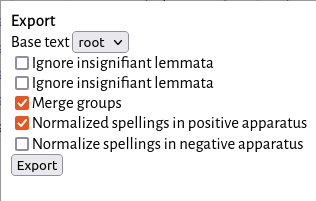
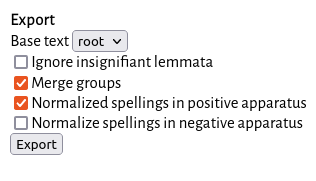
code & text cleanup

Changed region(s): [[0.0, 0.0, 1.0, 1.0]]

diff --git a/docs/index.html b/docs/index.html
@@ -101,7 +101,7 @@
                 <li>Reconstructing a text
                     <ul>
                         <li>open the NeXML tree in the <a href="https://chchch.github.io/sanskrit-alignment/matrix-editor/">matrix-editor</a>.</li>
-                        <li>make sure that the texts are normalized (<code>View -&gt; Normalize</code>).</li>
+                        <li>make sure that the texts are normalized (<code>View -&gt; Normalized</code>).</li>
                         <li>click on the node that you want to reconstruct (probably the root).</li>
                     </ul>
                 </li>
@@ -200,10 +200,10 @@ You should end up with a zip archive full of <code>.fas</code> files, as in the 
             </p>
             <h3 id="alignment-prep">Preparing the alignment tool</h3>
             <p>
-There has been a lot of research on sequence alignment, and a lot of software has been developed to perform it, but, unfortunately, they are almost exclusively focused on biological sequences.<label class="margin-toggle sidenote-number" for="n-alignment3"></label><input type="checkbox" id="n-alignment3" class="margin-toggle" /><span class="sidenote">Apart from <em>helayo</em> mentioned here, other possibilities for aligning texts include <a href="https://collatex.net">CollateX</a> or <a href="https://mafft.cbrc.jp/alignment/software/">MAFFT</a> with the <code>--text</code> option.</span> In this repository, I have included a command-line tool to perform sequence alignment on Sanskrit texts, currently named <em>helayo</em>. It uses the <em>Center Star</em> algorithm<label class="margin-toggle sidenote-number" for="n-alignment4"></label><input type="checkbox" id="n-alignment4" class="margin-toggle" /><span class="sidenote">As implemented in the <a href="http://hackage.haskell.org/package/align-0.1.1.2/docs/Data-Align.html">Data.Align</a> Haskell package, following <a href="b-chin2003">Chin et al. 2003</a>. <i>helayo</i> uses a modified version of Data.Align which employs an affine gap penalty function. See <a href="#b-gusfield1997">Gusfield 1997</a>, 243-244 or <a href="#b-sung2009">Sung 2009</a>, 42-45 for a presentation of the affine gap penalty model.</span> and is written in Haskell.
+There has been a lot of research on sequence alignment, and a lot of software has been developed to perform it, but, unfortunately, they are almost all exclusively focused on biological sequences.<label class="margin-toggle sidenote-number" for="n-alignment3"></label><input type="checkbox" id="n-alignment3" class="margin-toggle" /><span class="sidenote">Apart from <em>helayo</em> mentioned here, other possibilities for aligning texts include <a href="https://collatex.net">CollateX</a> or <a href="https://mafft.cbrc.jp/alignment/software/">MAFFT</a> with the <code>--text</code> option.</span> In this repository, I have included a command-line tool to perform sequence alignment on Sanskrit texts, named <em>helayo</em>. It uses the <em>Center Star</em> algorithm<label class="margin-toggle sidenote-number" for="n-alignment4"></label><input type="checkbox" id="n-alignment4" class="margin-toggle" /><span class="sidenote">As implemented in the <a href="https://hackage.haskell.org/package/align-affine-0.1.0.0">Data.Align.Affine</a> package, also by the author. It has been forked from <a href="https://hackage.haskell.org/package/align">Data.Align</a>, which follows <a href="b-chin2003">Chin et al. 2003</a>. Data.Align.Affine employs an affine gap penalty function. See <a href="#b-gusfield1997">Gusfield 1997</a>, 243-244 or <a href="#b-sung2009">Sung 2009</a>, 42-45 for a presentation of the affine gap penalty model.</span> and is written in Haskell.
             </p>
             <p>
-There are pre-built binaries for the MacOS, Ubuntu Linux, and Windows. Download the appropriate <code>helayo</code> file from the <a href="https://github.com/chchch/sanskrit-alignment/tree/master/helayo/dist"><code>dist</code> directory of the GitHub repository</a>.
+There are pre-built binaries for MacOS, Ubuntu Linux, and Windows. Download the appropriate <code>helayo</code> file from the <a href="https://github.com/chchch/sanskrit-alignment/tree/master/helayo/dist"><code>dist</code> directory of the GitHub repository</a>.
             </p>
             <p>Otherwise, you will need the <a href="https://www.haskell.org/platform/">Haskell Platform</a>, which should include the <a href="https://docs.haskellstack.org/en/stable/install_and_upgrade/">stack</a> build tool. Once you have installed that, go into the <code>helayo/</code> directory and issue the following command:
             </p>
@@ -321,20 +321,48 @@ Now that the texts are aligned, you can check them in the <a href="https://githu
                 <img src="img/matrix-editor-1.png" alt="image of the matrix editor"/>
             </figure>
             <p>
-To see how the alignment tool has normalized the text, use the <code>View</code> menu and click <code>Normalize</code>.
+To see how the alignment tool has normalized the text, use the <code>View</code> menu and click <code>Normalized</code>.
             </p>
            <figure>
                 <img src="img/matrix-editor-2.png" alt="image of the matrix editor"/>
             </figure>
             <p>
-There may be some minor mis-alignments; the matrix-editor contains some basic functions for editing the alignment, but the software is still in development. In practice, the alignments are generally good enough <em>as-is</em> in order to produce a viable tree. Especially when the text is long, I have found the small mis-alignments have no effect. The <cite>Dravyasamuddeśa</cite> with commentary, split up as akṣaras, amounts to 7486 lemmata.
+There may be some minor mis-alignments; you can edit an individual cell by clicking it and pressing <code>Enter</code> or using the menu option <code>Edit -&gt; Edit cell</code>. In practice, the alignments are generally good enough <em>as-is</em> in order to produce a viable tree. Especially when the text is long, I have found the small mis-alignments have no effect. The <cite>Dravyasamuddeśa</cite> with commentary, split up as akṣaras, amounts to 7486 lemmata.
             </p>
             <p>
-It is possible to export the alignment as a CSV file and edit it in any spreadsheet software, but, in doing so, you will lose the normalization data.
+It is possible to export the alignment as a CSV file and edit it in any spreadsheet software, but, in doing so, you will lose the normalization data. You can, however, re-normalize the texts at any time by selecting columns and using the menu option <code>Edit -&gt; (Re)normalize</code>.
+            </p>
+            <p>
+If you have done a character- or akṣara-based alignment, you can also ask the editor to try to group the columns into words, using the whitespace between characters as cues. This can be done by using the <code>Group words</code> command in the <code>Edit</code> menu.
+            </p>
+            <figure>
+            <img src="img/matrix-editor-grouped-words-2.png"/>
+            </figure>
+            <p>
+The results will differ depending on whether characters or akṣaras are being grouped. In this example,
+            </p>
+            <blockquote>
+                <pre style="font-size: 0.7em">
+pa dā rthā vi tyu ktaṃ
+                </pre>
+            </blockquote>
+            <p>
+has been grouped together as <q>padārthāvityuktaṃ</q>, even though, in the unnormalized text, there are spaces between <q>padārthāv</q>, <q>ity</q>, and <q>uktaṃ</q>. The sequence <code>v i</code> is a single akṣara and cannot be split; the same applies to <code>ty u</code>. However, if we had done a character-based alignment,
+            </p>
+            <blockquote>
+                <pre style="font-size: 0.7em">
+p a d ā r th ā v i t y u k t a ṃ
+                </pre>
+            </blockquote>
+            <p>
+the sequence would have been split as <q>padārthāv ity utakṃ</q>.
             </p>
             <p>
 <label class="margin-toggle" for="n-alignment3">⊕</label><input id="n-alignment3" class="margin-toggle" type="checkbox"/><span class="marginnote"><img src="img/matrix-export.png" style="border: 1px solid black" alt="the NEXUS export dialog box"/><br/>The NEXUS export dialog.</span>
 When you are satisfied with the alignment, you can export it as a NEXUS file, which can be used in phylogenetics software. If you have multiple files, you should open all of them together in the matrix-editor (use Ctrl-Click or Shift-Click to select multiple). Then use the <code>Export</code> menu and click <code>NEXUS</code>. You will probably want to use the normalized text in your phylogenetic analysis, so check the <code>Normalize spellings</code> box.
+            </p>
+            <p>
+At this point, if you have done a character- or akṣara-based alignment, and you have used the <code>Group words</code> function, you can also use the <code>Merge groups</code> option in order to try analyzing the alignment as words rather than characters or akṣaras.
             </p>
             <p>
 The resulting NEXUS file is available in the GitHub repository at <a href="https://github.com/chchch/sanskrit-alignment/tree/master/example/full-alignment.nex">example/full-alignment.nex</a>.
@@ -460,7 +488,7 @@ I re-rooted the tree, this time using C<sub>T</sub>, T, H, M, P, and G<sub>V</su
             </p>
             <h3 id="reconstruction-passage">Reconstructing an entire passage</h3>
             <p>
-Instead of reconstructing the text lemma-by-lemma, we can ask the software to reconstruct the entire text for us. First make sure you are using the normalized readings (<code>View -&gt; Normalize</code>). Then, simply click one node. Presumably, we will want to reconstruct the root — that is, what we hypothesize to be the oldest reachable state of the text, based solely on the manuscript evidence. However, you can also reconstruct the text at any later stage of its evolution; for example, if you wish to reconstruct the northern recension of the text, simply click on the node that groups all the northern witnesses together. Here, for the sake of an example, I have chosen the root.
+Instead of reconstructing the text lemma-by-lemma, we can ask the software to reconstruct the entire text for us. First make sure you are using the normalized readings (<code>View -&gt; Normalized</code>). Then, simply click one node. Presumably, we will want to reconstruct the root — that is, what we hypothesize to be the oldest reachable state of the text, based solely on the manuscript evidence. However, you can also reconstruct the text at any later stage of its evolution; for example, if you wish to reconstruct the northern recension of the text, simply click on the node that groups all the northern witnesses together. Here, for the sake of an example, I have chosen the root.
                 <label class="margin-toggle" for="n-root1">⊕</label>
                 <input id="n-root1" class="margin-toggle" type="checkbox"/>
                 <span class="marginnote">
@@ -482,17 +510,14 @@ Where the algorithm is able to come up with a definitive reading, it will be dis
             </figure>
             <h3 id="export-apparatus">Exporting a critical apparatus</h3>
             <p>
-After reconstructing a passage, the text can be exported in TEI XML format, as a text with variant readings. If you have done the alignment as characters or akṣaras, you will probably want to group them into larger lemmata before exporting. You can do this by using the <code>Group words</code> command in the <code>Edit</code> menu. This function tries to group words together using the whitespace between lemmata as cues.
+After reconstructing a passage, the text can be exported in TEI XML format, as a text with variant readings. If you have done the alignment as characters or akṣaras, you will probably want to group them into larger lemmata before exporting. You can do this by using the <code>Group words</code> command in the <code>Edit</code> menu, if you haven't already. 
             </p>
             <figure>
                 <img src="img/matrix-editor-grouped-words.png">
             </figure>
             <p>
-The results will differ depending on whether characters or akṣaras are being grouped. In this example, <code>a rtha va stva bhi dhā ya ke na</code> has been grouped together as <q>arthavastvabhidhāyakena</q>. However, if we had done a character-based alignment, <code>a r th a v a s t v a bh i dh ā y a k e n a</code> would have been split into <q>arthavastv</q> and <q>abhidhāyakena</q>.
-            </p>
-            <p>
 <label class="margin-toggle" for="n-export-apparatus">⊕</label><input id="n-export-apparatus" class="margin-toggle" type="checkbox"/><span class="marginnote"><img src="img/matrix-export-apparatus.png" style="border: 1px solid black" alt="the TEI apparatus export dialog box"/><br/>The TEI apparatus export dialog.</span>
-Once you are satisfied with the groupings, you can export the text in TEI XML format, by choosing <code>TEI apparatus</code> from the <code>Export</code> menu.  There, you will be able to choose a base text (probably the reconstructed text). You will want to make sure that <code>Merge groups</code> is checked, so that the apparatus of variants is constructed based on the grouped "words" rather than on each individual character or akṣara.
+If you want to change the groups, you can select columns and use the <code>Edit -&gt; Ungroup columns</code> and <code>Edit -&gt; Group columns</code> commands to reform them. Once you are satisfied, you can export the text in TEI XML format, by choosing <code>TEI apparatus</code> from the <code>Export</code> menu.  There, you will be able to choose a base text (probably the reconstructed text). You will want to make sure that <code>Merge groups</code> is checked, so that the apparatus of variants is constructed based on the grouped "words" rather than on each individual character or akṣara.
             </p>
             <p>
 The resulting TEI XML file can then be edited — for example, you may wish to prune the apparatus so that only the most important variants are shown. Since all of the manuscript witnesses have been transcribed already and can be compared using tools like <a href="https://saktumiva.org/">saktumiva.org</a>, this <q>curated</q> apparatus can be a useful way to focus on certain textual issues, while still having a fully positive apparatus available to the reader.

diff --git a/matrix-editor/script.js b/matrix-editor/script.js
@@ -1793,9 +1793,6 @@ END;
         <input type="checkbox" id="option__app_insignificant" name="option_app_insignificant"><label for="option_app_insignificant">Ignore insignifiant lemmata</label>
       </div>
       <div>
-        <input type="checkbox" id="option__app_insignificant" name="option_app_insignificant"><label for="option_app_insignificant">Ignore insignifiant lemmata</label>
-      </div>
-      <div>
         <input type="checkbox" id="option_mergegroups" name="option_mergegroups" checked><label for="option_mergegroups">Merge groups</label>
       </div>
       <div>

diff --git a/README.md b/README.md
@@ -2,16 +2,19 @@
 
 ![helayo build & test](https://github.com/chchch/sanskrit-alignment/actions/workflows/build.yml/badge.svg)
 
-This repository contains some work-in-progress centered on aligning Sanskrit texts (for doing collation, reconstruction, etc.)
+This repository contains a _helayo_, a program for aligning/collating Sanskrit texts, and _matrix-editor_, a web-based interface for editing those alignments and producing tree-based textual reconstructions.
 
-See the docs at https://chchch.github.io/sanskrit-alignment/docs/index.html for more information.
+See the docs at https://chchch.github.io/sanskrit-alignment/docs/ for more information.
 
 ## directories
 
-* csv2mafft/ — tools for working with MAFFT (not covered here)
-* docs/ — the location of this tutorial
-* example/ — containing the example files used in this tutorial
+* csv2mafft/ — tools for working with MAFFT
+* docs/ — the location of the tutorial
+* example/ — the example files used in the tutorial
     * example/fastt/ — FASTT files exported from saktumiva.org
     * example/xml/ — those files aligned, which can be opened in the matrix-editor
-* helayo/ — the alignment tool (see Alignment)
-* matrix-editor/ — an interface to view/edit alignments, export them to be used with phylogenetic tree-building software, and reconstruct texts based on those trees 
+    * example/trees/ ― phylogenetic trees produced from the alignments
+* helayo/ — the alignment program
+    * helayo/dist/ ― binaries for MacOS, Ubuntu Linux, and Windows
+* matrix-editor/ — an interface to view/edit alignments, export them to be used with phylogenetic tree-building software, and reconstruct texts based on those trees; this can accessed [online](https://chchch.github.io/matrix-editor)
+* sabdasagara/ ― a program to analyze Sanskrit texts using akṣara ngrams
